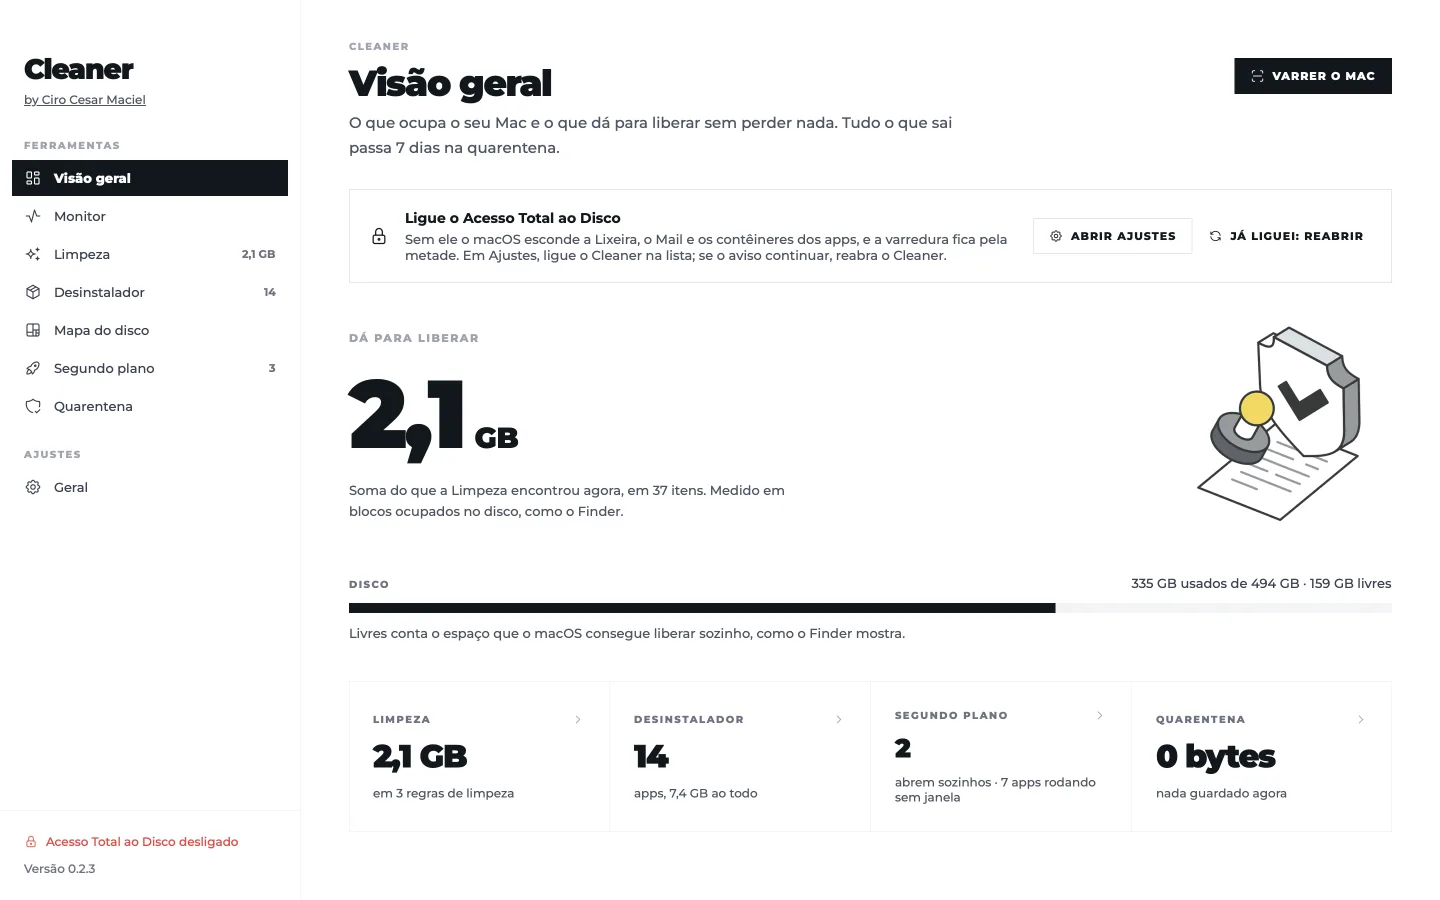
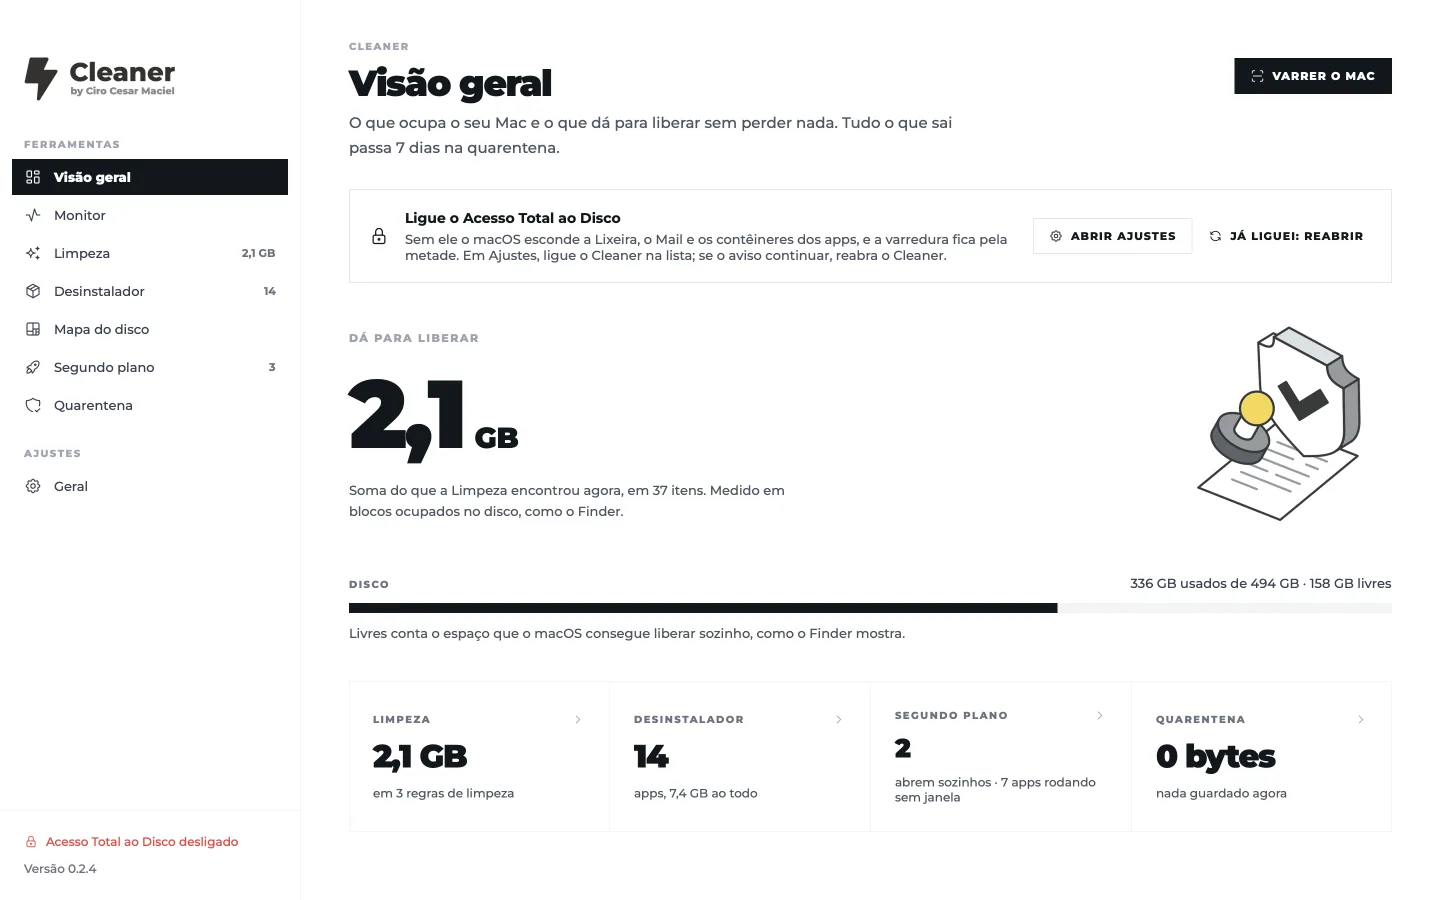
feat: the logotype in the window and the menu bar panel, the same lockup as the maker's sites
Bolt, word and "by Ciro Cesar Maciel" at the word's width, generated by the
design system's logotype script. A click opens ciromaciel.click in the browser.
The mark is not under the MIT License. 0.2.4.

diff --git a/Sources/Cleaner/UI/Theme.swift b/Sources/Cleaner/UI/Theme.swift
@@ -298,19 +298,30 @@ struct CheckBox: View {
     }
 }
 
-/// "by Ciro Cesar Maciel" under the wordmark. It opens his site in the browser: a link the person
-/// clicks, not network code (the app itself never talks to the internet). `source` tells his
-/// scoreboard which corner of the app the visit came from.
-struct MakerLink: View {
+/// The logotype: the bolt, the word and "by Ciro Cesar Maciel" at the word's width, the same
+/// lockup as the headers of the Ciro's sites (design system, 14-logotipo.md; generated by
+/// manager/gtm/scripts/logotype.mjs, never redrawn). A click opens his site in the browser: a
+/// link the person clicks, not network code. `source` tells his scoreboard which corner of the
+/// app the visit came from.
+struct Logotype: View {
+    var height: CGFloat
     let source: String
+
+    private static let image: NSImage? = Bundle.main.url(forResource: "Logotype", withExtension: "png")
+        .flatMap { NSImage(contentsOf: $0) }
 
     var body: some View {
         Button {
             if let url = URL(string: "https://ciromaciel.click/?ref=\(source)") { NSWorkspace.shared.open(url) }
         } label: {
-            Text("by Ciro Cesar Maciel").zenData(12, color: Zen.gray6).underline()
+            if let img = Logotype.image {
+                Image(nsImage: img).resizable().interpolation(.high).aspectRatio(contentMode: .fit).frame(height: height)
+            } else {
+                Text("Cleaner").zenDisplay(height * 0.5)
+            }
         }
         .buttonStyle(.plain)
-        .help("Mais ferramentas do Ciro, em ciromaciel.click")
+        .help("Cleaner by Ciro Cesar Maciel. Mais ferramentas em ciromaciel.click")
+        .accessibilityLabel("Cleaner by Ciro Cesar Maciel")
     }
 }

diff --git a/Sources/Cleaner/UI/MenuPanel.swift b/Sources/Cleaner/UI/MenuPanel.swift
@@ -11,11 +11,8 @@ struct MenuPanel: View {
         let s = monitor.sample
         let cap = monitor.historyLength
         VStack(alignment: .leading, spacing: 0) {
-            HStack(alignment: .firstTextBaseline) {
-                VStack(alignment: .leading, spacing: 4) {
-                    Text("Cleaner").zenDisplay(20)
-                    MakerLink(source: "oss-cleaner-menubar")
-                }
+            HStack(alignment: .center) {
+                Logotype(height: 36, source: "oss-cleaner-menubar")
                 Spacer()
                 Text("ligado há \(Format.uptime(s.uptime))").zenData(11, color: Zen.gray5)
             }

diff --git a/Sources/Cleaner/UI/CleanerApp.swift b/Sources/Cleaner/UI/CleanerApp.swift
@@ -234,10 +234,7 @@ struct Sidebar: View {
     var body: some View {
         VStack(alignment: .leading, spacing: 0) {
             // Room for the window buttons, then the wordmark (28px) and who made it.
-            VStack(alignment: .leading, spacing: 6) {
-                Text("Cleaner").zenDisplay(28)
-                MakerLink(source: "oss-cleaner-app")
-            }
+            Logotype(height: 54, source: "oss-cleaner-app")
                 .padding(.top, 52)
                 .padding(.horizontal, 24)
                 .padding(.bottom, 32)
